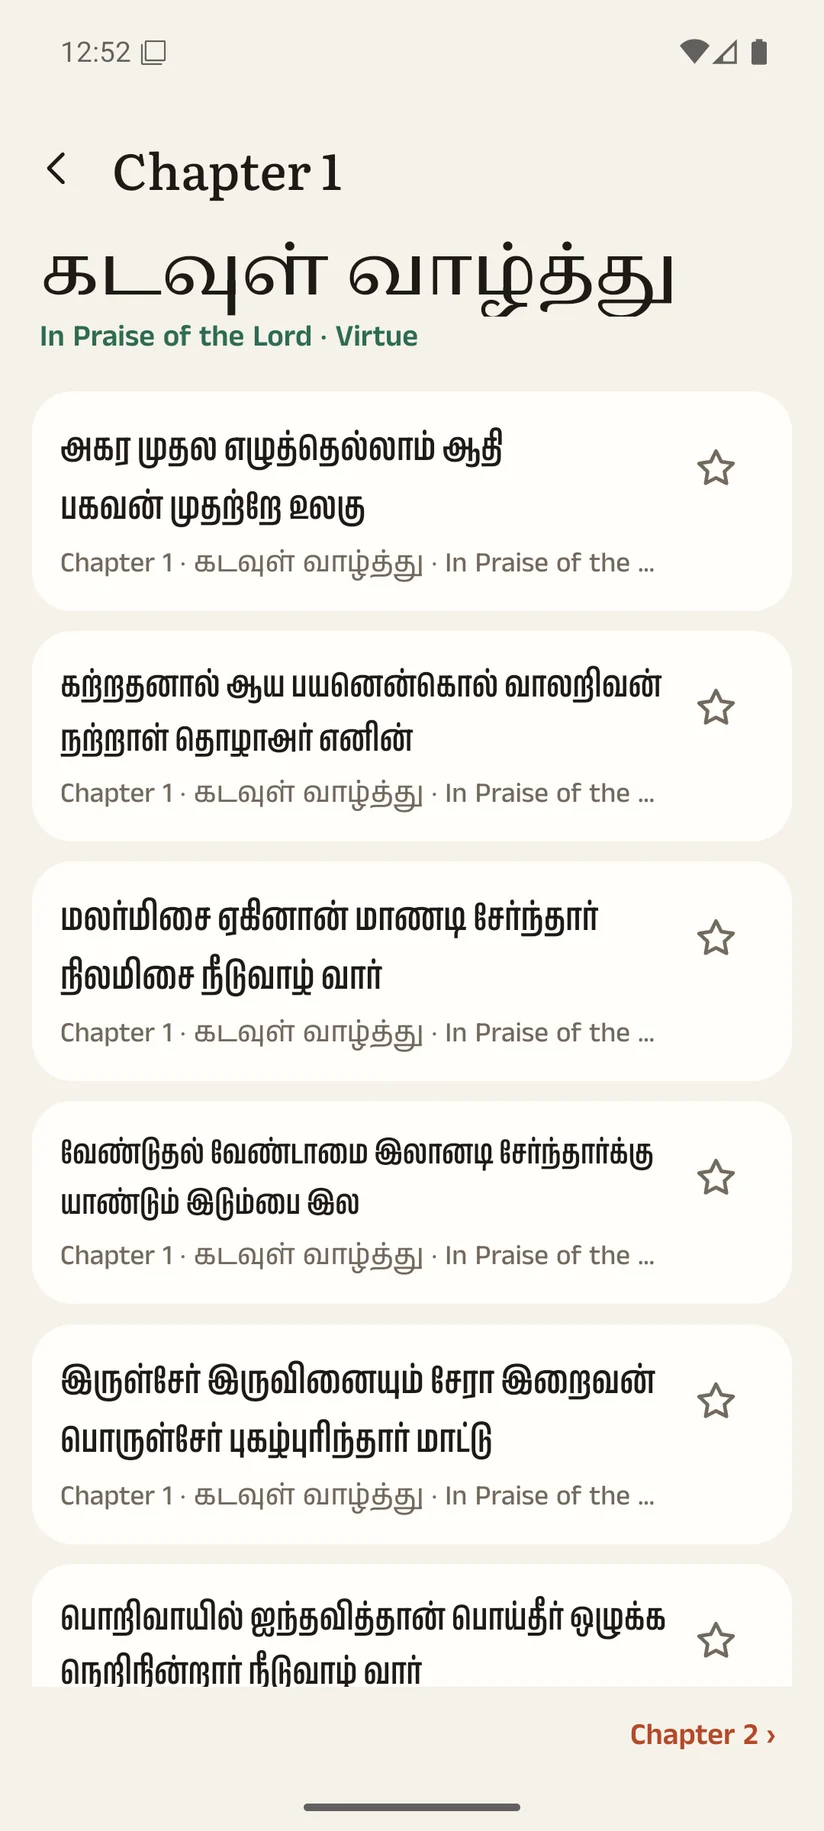
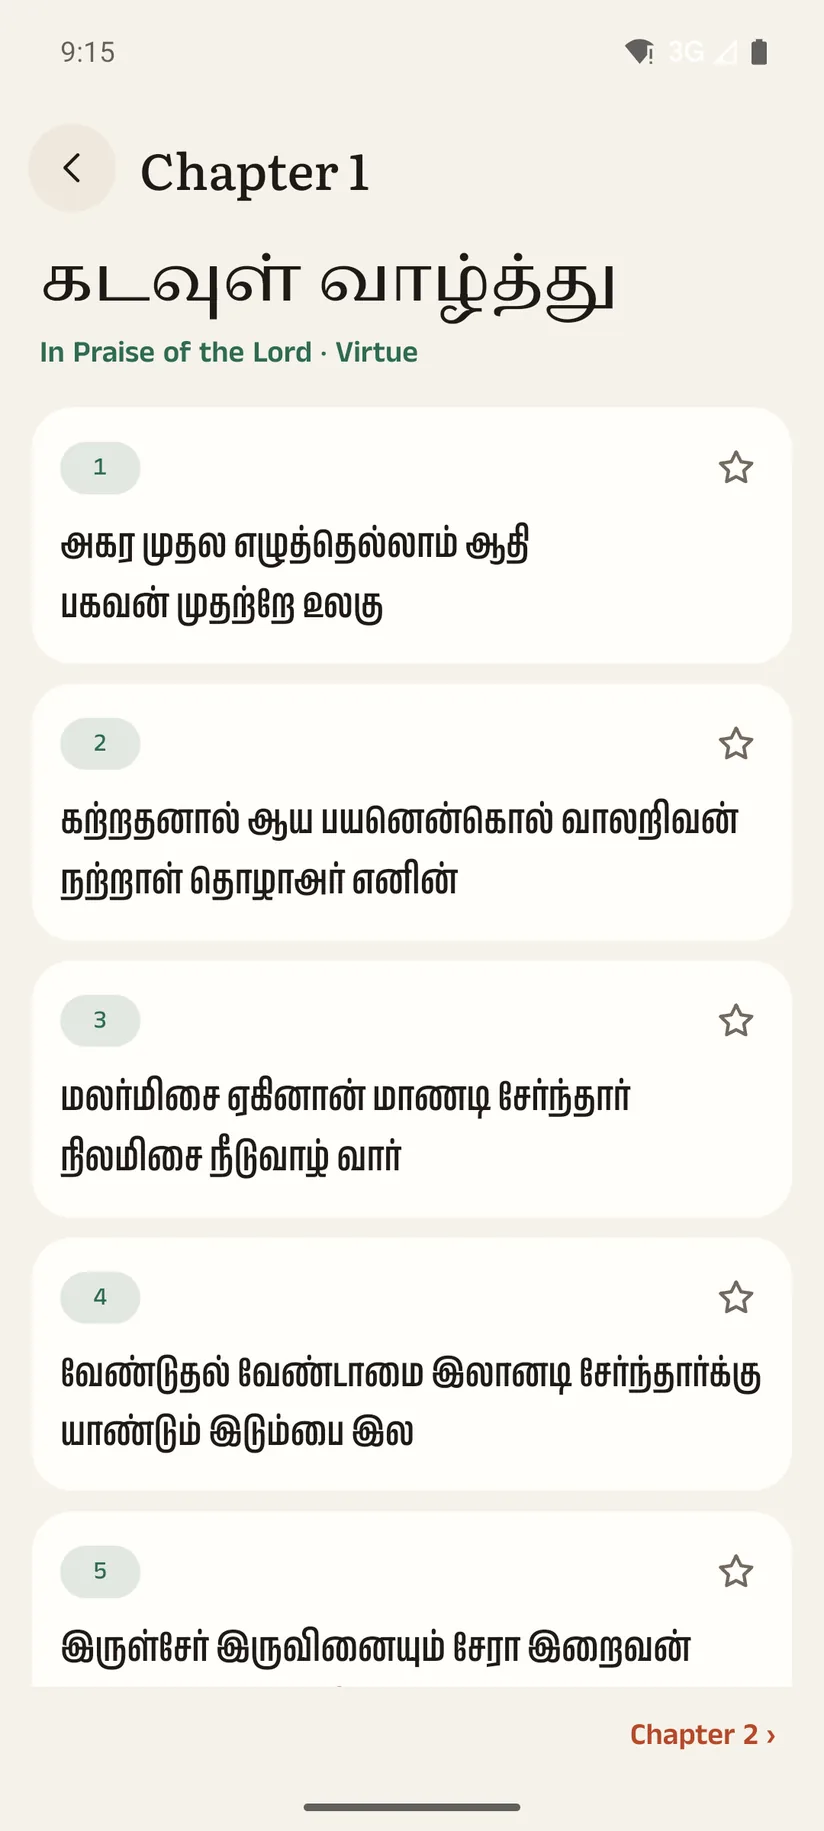
New screens from 1.0.2: the journal, the Tamil voice, Mu. Va.'s explanation and seven share looks

diff --git a/index.html b/index.html
@@ -4,7 +4,7 @@
   <meta charset="utf-8">
   <meta name="viewport" content="width=device-width, initial-scale=1">
   <title>Kural Heart · A private journal with Thiruvalluvar, for Android</title>
-  <meta name="description" content="Kural Heart is a free Android journal built on the Thirukkural. One couplet a day in Tamil with Aiyar's and Pope's English, a question to write about, and a private page that stays on your phone. No ads, no account.">
+  <meta name="description" content="Kural Heart is a free Android journal built on the Thirukkural. One couplet a day in Tamil, read aloud in a natural Tamil voice, with Aiyar's and Pope's English and Mu. Varadarasanar's Tamil explanation, a question to write about, and a private page that stays on your phone. No ads, no account.">
   <meta name="theme-color" content="#F6F2EA">
   <meta property="og:title" content="Kural Heart">
   <meta property="og:description" content="A private journal with Thiruvalluvar. Free, no ads.">
@@ -40,7 +40,7 @@
       </p>
       <ul class="facts" data-reveal style="--i:3"><li>Free, no ads</li><li>No account</li><li>Tamil and English</li></ul>
     </div>
-    <figure class="hero-media"><div class="phone" data-reveal style="--i:2"><img src="assets/screens/today.webp" width="824" height="1831" alt="Today: Kural 391 on its palm leaf, Aiyar's English beneath it, and the question 'What have you learned lately that you have not yet lived by?'" fetchpriority="high"></div></figure>
+    <figure class="hero-media"><div class="phone" data-reveal style="--i:2"><img src="assets/screens/today.webp" width="824" height="1831" alt="Today: Good morning, with the morning sun drawn behind the greeting, Valluvar reading in his arch, Kural 622 on its palm leaf with its pronunciation, and Aiyar's English beneath" fetchpriority="high"></div></figure>
   </section>
 
   <!-- What it does -->
@@ -53,43 +53,56 @@
       <article class="row" aria-labelledby="f1">
         <div class="row-text">
           <h3 id="f1" class="h3" data-reveal>Read it, then write</h3>
-          <div class="leaf" data-reveal style="--i:1"><p lang="ta">கற்க கசடறக் கற்பவை கற்றபின்<br>நிற்க அதற்குத் தக</p><small>Chapter 40 · கல்வி · Kural 391</small></div>
+          <div class="leaf" data-reveal style="--i:1"><p lang="ta">கற்க கசடறக் கற்பவை கற்றபின்<br>நிற்க அதற்குத் தக</p><small>Karka kasadarak karpavai katrabin · Nirka adharkuth thaga</small><small>Chapter 40 · கல்வி · Kural 391</small></div>
           <ul class="ticks" data-reveal style="--i:2">
             <li>Each couplet in Tamil, always flush left, with Aiyar's and Pope's English</li>
+            <li>A pronunciation line under each one, simple or scholarly (ISO 15919), for readers new to Tamil</li>
             <li>A question for the mind, for speech and for action</li>
-            <li>Bold, lists, a checklist, photos, the place and the weather if you want them</li>
           </ul>
         </div>
-        <figure class="row-media"><div class="phone" data-reveal><img src="assets/screens/chapter.webp" width="824" height="1831" alt="Chapter 1, In Praise of the Lord: its ten couplets, each two lines, each with a star to save it" loading="lazy" decoding="async"></div></figure>
+        <figure class="row-media"><div class="phone" data-reveal><img src="assets/screens/chapter.webp" width="824" height="1831" alt="Chapter 1, In Praise of the Lord: its ten couplets, each numbered, each in two lines, each with a star to save it" loading="lazy" decoding="async"></div></figure>
       </article>
 
       <article class="row" aria-labelledby="f2">
         <div class="row-text">
           <h3 id="f2" class="h3" data-reveal>All 1,330, to read and to hear</h3>
-          <p data-reveal style="--i:1">Browse the three books by chapter, search by number or by a word in Tamil or English, save the couplets you love, and listen to them read aloud.</p>
+          <p data-reveal style="--i:1">Browse the three books by chapter, search by number or by a word in Tamil or English, and save the couplets you love. Every couplet is recorded in a natural Tamil voice, so Listen sounds the same on any phone, even offline.</p>
           <ul class="ticks" data-reveal style="--i:2">
+            <li>With Tamil first, Mu. Varadarasanar's Tamil explanation under every couplet</li>
             <li>The Tamil text checked line by line against two other sources</li>
             <li>Filters for saved, written about, and not read yet</li>
-            <li>Make any couplet today's couplet</li>
           </ul>
         </div>
-        <figure class="row-media"><div class="phone" data-reveal><img src="assets/screens/tamil.webp" width="824" height="1831" alt="The Today screen in Tamil: வணக்கம், the couplet on its leaf, and the day's question in Tamil" loading="lazy" decoding="async"></div></figure>
+        <figure class="row-media"><div class="phone" data-reveal><img src="assets/screens/tamil.webp" width="824" height="1831" alt="Today in Tamil: காலை வணக்கம் under the morning sun, Kural 622 on its leaf, and Mu. Varadarasanar's Tamil explanation beneath it" loading="lazy" decoding="async"></div></figure>
+      </article>
+
+      <article class="row" aria-labelledby="f5">
+        <div class="row-text">
+          <h3 id="f5" class="h3" data-reveal>Your pages, as you live them</h3>
+          <p data-reveal style="--i:1">Write a line or a page. Add how you feel, a photo, a voice note or a short video, and where you were. Find it again by day, by feeling, or on a map.</p>
+          <ul class="ticks" data-reveal style="--i:2">
+            <li>Nine feelings, each with its own colour, and a couplet for the heavy days</li>
+            <li>Voice notes and videos up to a minute, locked like everything else</li>
+            <li>A calendar of your days, your photos together, and a map of your places</li>
+          </ul>
+        </div>
+        <figure class="row-media"><div class="phone" data-reveal><img src="assets/screens/journal.webp" width="824" height="1831" alt="A page from Monday: Kural 391 on its leaf, the question and the answer written, a video and a voice note, and the feeling Grateful" loading="lazy" decoding="async"></div></figure>
       </article>
 
       <article class="row" aria-labelledby="f3">
         <div class="row-text">
           <h3 id="f3" class="h3" data-reveal>A thread, not a streak</h3>
-          <p data-reveal style="--i:1">Two rest days a week are kept for you, so a busy day never breaks your thread. Nine seals mark the way, from your first leaf to a year with Valluvar.</p>
+          <p data-reveal style="--i:1">Two rest days a week are kept for you, so a busy day never breaks your thread. Nine seals mark the way, from your first leaf to a year with Valluvar, and Insights shows your words, your writing days and the chapters you return to.</p>
         </div>
-        <figure class="row-media"><div class="phone" data-reveal><img src="assets/screens/journey.webp" width="824" height="1831" alt="Journey: a one-day thread, Valluvar walking with his staff, 133 chapter beads and the first seal earned" loading="lazy" decoding="async"></div></figure>
+        <figure class="row-media"><div class="phone" data-reveal><img src="assets/screens/journey.webp" width="824" height="1831" alt="Journey: a one-day thread, Valluvar walking with his staff, a button to see your insights, and 133 chapter beads" loading="lazy" decoding="async"></div></figure>
       </article>
 
       <article class="row" aria-labelledby="f4">
         <div class="row-text">
           <h3 id="f4" class="h3" data-reveal>Share a couplet, not your diary</h3>
-          <p data-reveal style="--i:1">Turn any couplet into a story or a post, with Valluvar reading at the top. Your own words are added only if you switch that on.</p>
+          <p data-reveal style="--i:1">Turn any couplet into a story or a post, in seven looks from Tamil life: dawn, midnight, clay, peacock, banana leaf, jasmine and turmeric. Your own words are added only if you switch that on.</p>
         </div>
-        <figure class="row-media"><div class="phone" data-reveal><img src="assets/screens/story.webp" width="824" height="1831" alt="A story image of Kural 391: a dawn sky, Valluvar reading, the couplet on its leaf and Aiyar's English" loading="lazy" decoding="async"></div></figure>
+        <figure class="row-media"><div class="phone" data-reveal><img src="assets/screens/story.webp" width="824" height="1831" alt="Sharing Kural 622 as a story in the peacock look, deep blue-green with a gold silk border, above the seven looks to choose from" loading="lazy" decoding="async"></div></figure>
       </article>
     </div>
   </section>
@@ -101,9 +114,9 @@
       <p data-reveal style="--i:1">Kural Heart has no account, no ads and no analytics. It goes online only for the things you turn on.</p>
     </div>
     <dl class="more" data-reveal style="--i:1">
-      <div><dt>Locked on your phone</dt><dd>What you write, and your photos, are encrypted on the phone itself.</dd></div>
+      <div><dt>Locked on your phone</dt><dd>What you write, and your photos, voice notes and videos, are encrypted on the phone itself.</dd></div>
       <div><dt>Backups only you can open</dt><dd>A backup is one file locked with a passphrase that only you know.</dd></div>
-      <div><dt>Google Drive, if you want it</dt><dd>Sync keeps that locked file in a hidden app folder in your own Drive. Kural Heart can't see anything else there.</dd></div>
+      <div><dt>Google Drive, if you want it</dt><dd>Sync keeps that locked file in a hidden app folder in your own Drive. Kural Heart can't see anything else there, and you can delete the copy or switch accounts from the app.</dd></div>
       <div><dt>Place and weather, if you ask</dt><dd>Your rough position is used for a page's place name and weather, only when you tap for them.</dd></div>
       <div><dt>The widget</dt><dd>Today's couplet on your home screen. It never shows what you wrote.</dd></div>
       <div><dt>App lock</dt><dd>Your fingerprint, face or screen lock keeps the journal closed.</dd></div>
@@ -147,7 +160,8 @@
         <details name="faq" open><summary>Is it free?</summary><p>Yes, completely: no ads, no subscriptions and no paid extras.</p></details>
         <details name="faq"><summary>Where are my pages kept?</summary><p>On your phone, encrypted. If you turn on backup or Google Drive sync, a copy goes there too, locked with your passphrase.</p></details>
         <details name="faq"><summary>Why does it ask to sign in with Google?</summary><p>Only if you turn on Drive sync. Kural Heart asks for one thing: its own hidden folder in your Drive, where it keeps your locked backup. It can't see or change your other files.</p></details>
-        <details name="faq"><summary>Which translations are there?</summary><p>V. V. S. Aiyar's English (1916) and G. U. Pope's verse and prose (1886), both in the public domain. Modern commentaries are under copyright and aren't included.</p></details>
+        <details name="faq"><summary>Which translations are there?</summary><p>V. V. S. Aiyar's English (1916) and G. U. Pope's verse and prose (1886), both in the public domain, and in Tamil, Mu. Varadarasanar's Thirukkural Thelivurai (1969), which the Government of Tamil Nadu has made free for everyone.</p></details>
+        <details name="faq"><summary>Whose is the voice that reads the couplets?</summary><p>An open Tamil voice (Piper's "rasa female", trained on AI4Bharat's Rasa recordings), used once to record all 1,330 couplets. The recordings ship inside the app, so Listen works without the internet. You can choose your phone's own voice instead.</p></details>
         <details name="faq"><summary>Can I write in Tamil?</summary><p>Yes. Kural Heart works with any Tamil keyboard on your phone, and can lead in Tamil throughout.</p></details>
         <details name="faq"><summary>What if I forget my passphrase?</summary><p>Nobody can open the backup without it, not even me. The pages on your phone are still there; set up backup again with a new passphrase.</p></details>
         <details name="faq"><summary>How do updates arrive?</summary><p>Smaller improvements arrive inside the app by themselves. For new versions, download the new APK over the old one; your pages stay.</p></details>
@@ -162,12 +176,12 @@
   <div class="wrap">
     <p class="foot-name" aria-hidden="true">Kural Heart</p>
     <div class="foot-cols">
-      <nav aria-label="App"><h2>App</h2><a href="https://github.com/inigo-code/kural-heart/releases/latest/download/kuralheart.apk">Download the APK</a><a href="https://github.com/inigo-code/kural-heart/releases">Releases</a></nav>
+      <nav aria-label="App"><h2>App</h2><a href="https://github.com/inigo-code/kural-heart/releases/latest/download/kuralheart.apk">Download the APK</a><a href="https://github.com/inigo-code/kural-heart/releases">Releases</a><a href="https://github.com/inigo-code/kural-heart">Source on GitHub</a></nav>
       <nav aria-label="Your data"><h2>Your data</h2><a href="privacy.html">Privacy policy</a><a href="privacy.html#delete">Delete your data</a></nav>
       <nav aria-label="Also by Inigo"><h2>Also by Inigo</h2><a class="to-app" href="https://inigo-code.github.io/prompt-heart-site/"><img src="assets/prompt-heart.png" width="24" height="24" alt="">Prompt Heart</a><a class="to-app" href="https://inigo-code.github.io/watch-heart-site/"><img src="assets/watch-heart.png" width="24" height="24" alt="">Watch Heart</a><a class="to-app" href="https://inigo-code.github.io/frame-heart-site/"><img src="assets/frame-heart.svg" width="24" height="24" alt="">Frame Heart</a><a class="to-app" href="https://inigo-code.github.io/still-heart-site/"><img src="assets/still-heart.svg" width="24" height="24" alt="">Still Heart</a><a class="to-app" href="https://inigo-code.github.io/rush-heart-site/"><img src="assets/rush-heart.svg" width="24" height="24" alt="">Rush Heart</a><a class="to-home" href="https://inigo-code.github.io/"><img src="assets/heart-apps.svg" width="20" height="20" alt="">Heart Apps</a></nav>
       <nav aria-label="Contact"><h2>Contact</h2><a href="mailto:inigo@tosstheworld.org?subject=Kural%20Heart">inigo@tosstheworld.org</a></nav>
     </div>
-    <div class="foot-last"><p>© 2026 Inigo. Free, with no ads. Couplets from Project Madurai; English from Standard Ebooks and Project Madurai.</p><a href="#top">Back to the top</a></div>
+    <div class="foot-last"><p>© 2026 Inigo. Free, with no ads. Couplets from Project Madurai; English from Standard Ebooks and Project Madurai; Tamil explanation from Tamil Wikisource; the voice from Piper and AI4Bharat (CC BY 4.0).</p><a href="#top">Back to the top</a></div>
   </div>
 </footer>
 

diff --git a/theme.css b/theme.css
@@ -80,6 +80,7 @@
 }
 .leaf p { font: 600 clamp(1.15rem, 0.9rem + 1vw, 1.6rem)/1.55 'Anek Tamil', sans-serif; font-stretch: 75%; }
 .leaf small { display: block; margin-top: 10px; color: var(--leaf-note); font-size: var(--s-small); }
+.leaf small:not(:last-child) { margin-top: 8px; font-family: 'Literata', serif; font-style: italic; font-size: var(--s-body, 1rem); }
 
 .way-mark { display: grid; place-items: center; width: 48px; height: 48px; border-radius: 12px; background: var(--field); color: var(--field-ink); font-weight: 700; }
 
